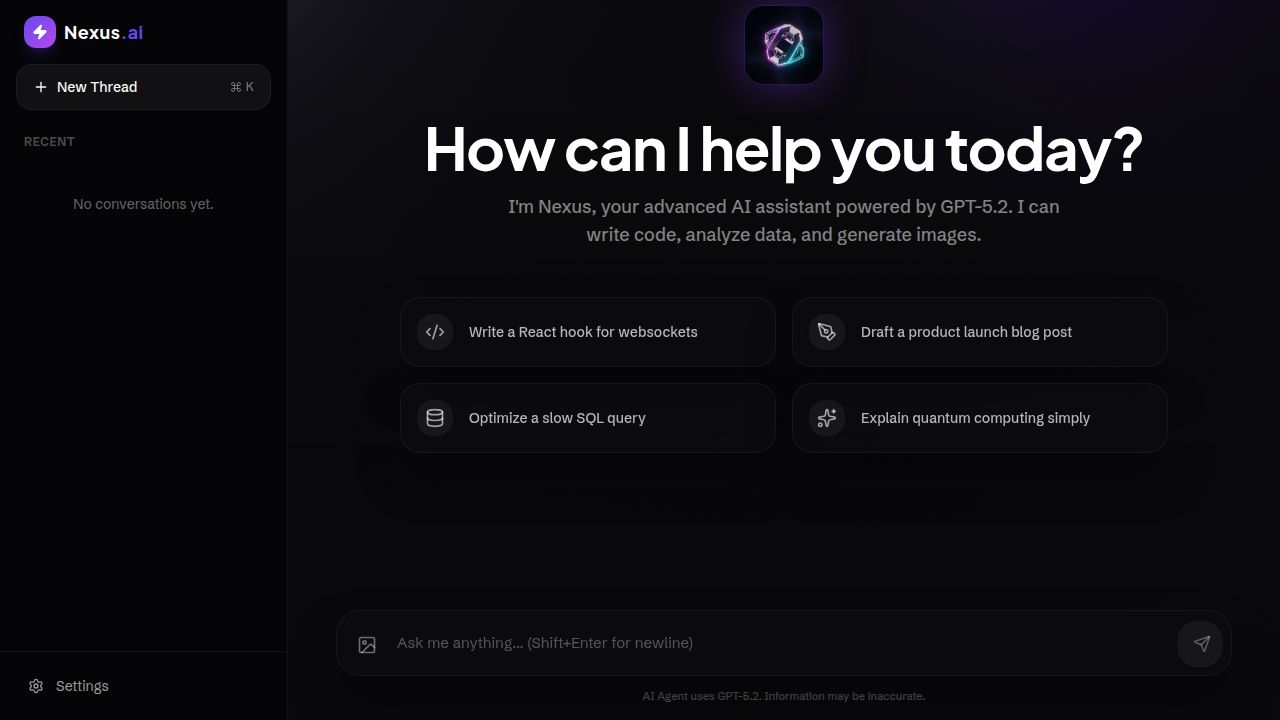
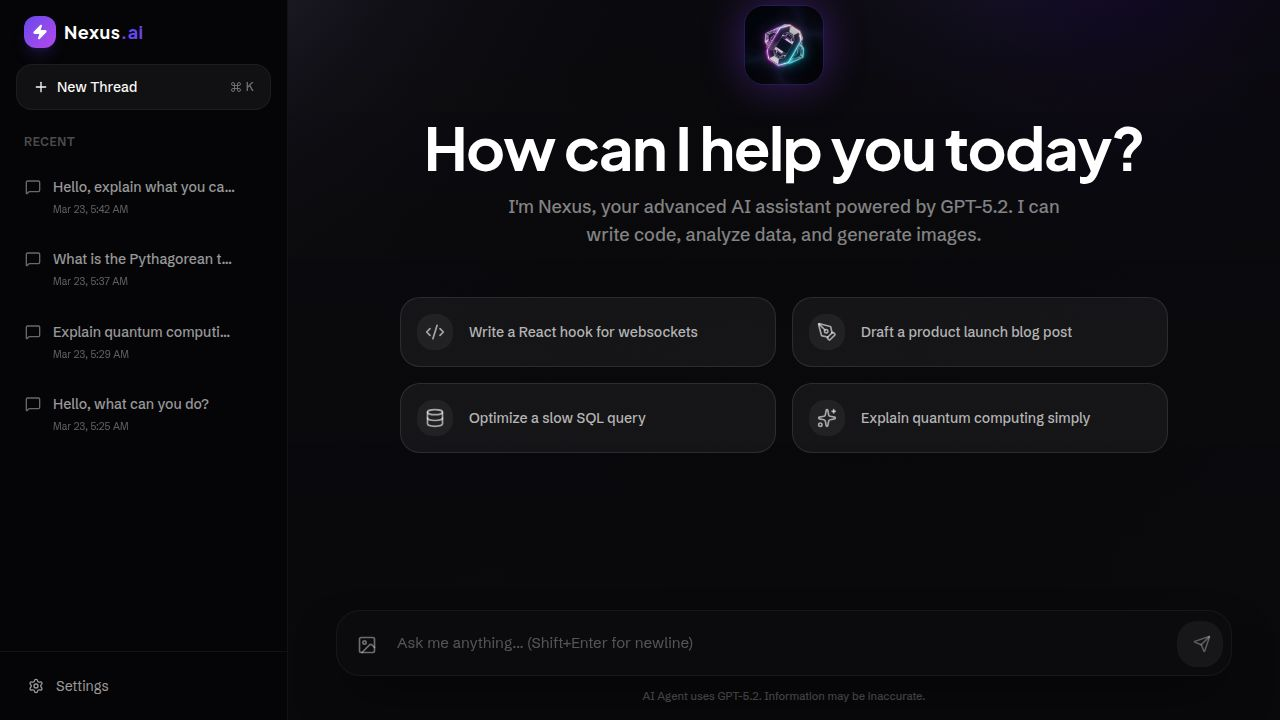
Add settings to customize AI behavior and manage conversations
Introduces a new SettingsDialog component and integrates it into the sidebar. Updates ChatContext to use custom system prompts from settings. Modifies the API server to accept and utilize the systemPrompt in message requests, and updates API specifications and generated types accordingly.

Replit-Commit-Author: Agent
Replit-Commit-Session-Id: 7df5c98d-694a-4660-9762-eb624209e7f6
Replit-Commit-Checkpoint-Type: full_checkpoint
Replit-Commit-Event-Id: afbe8bd6-94ae-4be5-abe4-93b4d1f12a5f
Replit-Commit-Screenshot-Url: https://storage.googleapis.com/screenshot-production-us-central1/21b80e66-913c-4829-8429-2caa1520962c/7df5c98d-694a-4660-9762-eb624209e7f6/gSpYthp
Replit-Helium-Checkpoint-Created: true

diff --git a/artifacts/ai-agent/src/components/SettingsDialog.tsx b/artifacts/ai-agent/src/components/SettingsDialog.tsx
@@ -1,0 +1,203 @@
+import { useState, useEffect } from "react";
+import {
+  Dialog,
+  DialogContent,
+  DialogHeader,
+  DialogTitle,
+} from "@/components/ui/dialog";
+import { Switch } from "@/components/ui/switch";
+import { Trash2, RotateCcw, Bot, Sliders, Info } from "lucide-react";
+import { useDeleteOpenaiConversation, useListOpenaiConversations, getListOpenaiConversationsQueryKey } from "@workspace/api-client-react";
+import { useQueryClient } from "@tanstack/react-query";
+
+export const SETTINGS_KEY = "nexus_settings";
+
+export interface NexusSettings {
+  systemPrompt: string;
+  responseStyle: "concise" | "balanced" | "detailed";
+  streamingEnabled: boolean;
+}
+
+export const DEFAULT_SETTINGS: NexusSettings = {
+  systemPrompt: "",
+  responseStyle: "balanced",
+  streamingEnabled: true,
+};
+
+export function loadSettings(): NexusSettings {
+  try {
+    const raw = localStorage.getItem(SETTINGS_KEY);
+    if (!raw) return DEFAULT_SETTINGS;
+    return { ...DEFAULT_SETTINGS, ...(JSON.parse(raw) as Partial<NexusSettings>) };
+  } catch {
+    return DEFAULT_SETTINGS;
+  }
+}
+
+export function saveSettings(s: NexusSettings): void {
+  localStorage.setItem(SETTINGS_KEY, JSON.stringify(s));
+}
+
+export function buildSystemPrompt(settings: NexusSettings): string {
+  const styleInstructions: Record<NexusSettings["responseStyle"], string> = {
+    concise: "Keep responses short and to the point. Avoid unnecessary elaboration.",
+    balanced: "Be clear and helpful. Use moderate detail.",
+    detailed:
+      "Provide thorough, comprehensive responses. Include explanations, examples, and context.",
+  };
+  const base =
+    settings.systemPrompt.trim() ||
+    "You are an extremely capable AI Agent. You can help with any task: coding, writing, analysis, math, creative work, research, problem-solving, and image generation.";
+
+  return `${base}\n\n${styleInstructions[settings.responseStyle]} Use markdown formatting when it improves readability.`;
+}
+
+interface SettingsDialogProps {
+  open: boolean;
+  onOpenChange: (open: boolean) => void;
+}
+
+export function SettingsDialog({ open, onOpenChange }: SettingsDialogProps) {
+  const [settings, setSettings] = useState<NexusSettings>(loadSettings);
+  const [clearConfirm, setClearConfirm] = useState(false);
+  const { data: conversations } = useListOpenaiConversations();
+  const { mutate: deleteConv } = useDeleteOpenaiConversation();
+  const queryClient = useQueryClient();
+
+  useEffect(() => {
+    if (open) setSettings(loadSettings());
+  }, [open]);
+
+  const update = (patch: Partial<NexusSettings>) => {
+    setSettings((prev) => {
+      const next = { ...prev, ...patch };
+      saveSettings(next);
+      return next;
+    });
+  };
+
+  const handleClearAll = () => {
+    if (!clearConfirm) {
+      setClearConfirm(true);
+      return;
+    }
+    const ids = (conversations ?? []).map((c) => c.id);
+    ids.forEach((id) => deleteConv({ id }));
+    queryClient.invalidateQueries({ queryKey: getListOpenaiConversationsQueryKey() });
+    setClearConfirm(false);
+  };
+
+  const handleResetPrompt = () => {
+    update({ systemPrompt: "" });
+  };
+
+  return (
+    <Dialog open={open} onOpenChange={(v) => { onOpenChange(v); setClearConfirm(false); }}>
+      <DialogContent className="max-w-lg bg-[#0d0d12] border-white/10 text-white rounded-2xl p-0 overflow-hidden">
+        <DialogHeader className="px-6 pt-6 pb-4 border-b border-white/5">
+          <DialogTitle className="text-lg font-semibold text-white flex items-center gap-2">
+            <Sliders className="w-5 h-5 text-primary" />
+            Settings
+          </DialogTitle>
+        </DialogHeader>
+
+        <div className="px-6 py-5 space-y-6 overflow-y-auto max-h-[70vh]">
+          {/* Model info */}
+          <section className="space-y-2">
+            <h3 className="text-xs font-semibold text-white/40 uppercase tracking-wider">Model</h3>
+            <div className="flex items-center gap-3 p-3 rounded-xl bg-white/5 border border-white/5">
+              <Bot className="w-5 h-5 text-primary shrink-0" />
+              <div>
+                <p className="text-sm font-medium text-white">GPT-5.2</p>
+                <p className="text-xs text-white/40">Powered by Replit AI Integration</p>
+              </div>
+            </div>
+          </section>
+
+          {/* Response style */}
+          <section className="space-y-3">
+            <h3 className="text-xs font-semibold text-white/40 uppercase tracking-wider">Response Style</h3>
+            <div className="grid grid-cols-3 gap-2">
+              {(["concise", "balanced", "detailed"] as const).map((style) => (
+                <button
+                  key={style}
+                  onClick={() => update({ responseStyle: style })}
+                  className={`px-3 py-2 rounded-xl text-xs font-medium capitalize transition-all border ${
+                    settings.responseStyle === style
+                      ? "bg-primary/20 border-primary/40 text-primary"
+                      : "bg-white/5 border-white/5 text-white/50 hover:bg-white/10 hover:text-white"
+                  }`}
+                >
+                  {style}
+                </button>
+              ))}
+            </div>
+            <p className="text-xs text-white/30">
+              {settings.responseStyle === "concise" && "Short, direct answers without elaboration."}
+              {settings.responseStyle === "balanced" && "Clear and helpful responses with appropriate detail."}
+              {settings.responseStyle === "detailed" && "Comprehensive answers with explanations and examples."}
+            </p>
+          </section>
+
+          {/* Streaming */}
+          <section className="space-y-3">
+            <h3 className="text-xs font-semibold text-white/40 uppercase tracking-wider">Behavior</h3>
+            <div className="flex items-center justify-between p-3 rounded-xl bg-white/5 border border-white/5">
+              <div>
+                <p className="text-sm font-medium text-white">Streaming responses</p>
+                <p className="text-xs text-white/40">Show tokens as they are generated</p>
+              </div>
+              <Switch
+                checked={settings.streamingEnabled}
+                onCheckedChange={(v) => update({ streamingEnabled: v })}
+              />
+            </div>
+          </section>
+
+          {/* Custom system prompt */}
+          <section className="space-y-3">
+            <div className="flex items-center justify-between">
+              <h3 className="text-xs font-semibold text-white/40 uppercase tracking-wider">Custom Instructions</h3>
+              {settings.systemPrompt && (
+                <button
+                  onClick={handleResetPrompt}
+                  className="flex items-center gap-1 text-xs text-white/40 hover:text-white/70 transition-colors"
+                >
+                  <RotateCcw className="w-3 h-3" />
+                  Reset
+                </button>
+              )}
+            </div>
+            <textarea
+              value={settings.systemPrompt}
+              onChange={(e) => update({ systemPrompt: e.target.value })}
+              placeholder="Add custom instructions for the AI (optional). For example: 'Always respond in Spanish' or 'You are a senior Python engineer.'"
+              rows={4}
+              className="w-full px-3 py-2.5 rounded-xl bg-white/5 border border-white/10 text-sm text-white/80 placeholder:text-white/20 focus:outline-none focus:border-primary/40 resize-none transition-colors"
+            />
+            <div className="flex items-start gap-2 text-xs text-white/30">
+              <Info className="w-3 h-3 shrink-0 mt-0.5" />
+              <p>These instructions are sent with every message and shape how the AI responds to you.</p>
+            </div>
+          </section>
+
+          {/* Danger zone */}
+          <section className="space-y-3 pt-2 border-t border-white/5">
+            <h3 className="text-xs font-semibold text-white/40 uppercase tracking-wider">Data</h3>
+            <button
+              onClick={handleClearAll}
+              className={`flex items-center gap-2 w-full px-4 py-3 rounded-xl text-sm font-medium transition-all border ${
+                clearConfirm
+                  ? "bg-red-500/20 border-red-500/40 text-red-400 hover:bg-red-500/30"
+                  : "bg-white/5 border-white/5 text-white/60 hover:bg-white/10 hover:text-white"
+              }`}
+            >
+              <Trash2 className="w-4 h-4" />
+              {clearConfirm ? "Click again to confirm — this cannot be undone" : "Clear all conversations"}
+            </button>
+          </section>
+        </div>
+      </DialogContent>
+    </Dialog>
+  );
+}

diff --git a/artifacts/ai-agent/src/components/Sidebar.tsx b/artifacts/ai-agent/src/components/Sidebar.tsx
@@ -1,11 +1,14 @@
+import { useState } from "react";
 import { Link, useLocation } from "wouter";
 import { format } from "date-fns";
 import { MessageSquare, Plus, Trash2, Zap, Settings, Command } from "lucide-react";
 import { useListOpenaiConversations, useDeleteOpenaiConversation, getListOpenaiConversationsQueryKey } from "@workspace/api-client-react";
 import { cn } from "@/lib/utils";
 import { useQueryClient } from "@tanstack/react-query";
+import { SettingsDialog } from "@/components/SettingsDialog";
 
 export function Sidebar({ className }: { className?: string }) {
+  const [settingsOpen, setSettingsOpen] = useState(false);
   const [location, setLocation] = useLocation();
   const { data: conversations, isLoading } = useListOpenaiConversations();
   const { mutate: deleteConversation } = useDeleteOpenaiConversation();
@@ -103,11 +106,16 @@ export function Sidebar({ className }: { className?: string }) {
       </div>
 
       <div className="p-4 border-t border-white/5 mt-auto">
-        <button className="flex items-center gap-3 w-full px-3 py-2 rounded-xl text-sm text-white/60 hover:text-white hover:bg-white/5 transition-colors">
+        <button
+          onClick={() => setSettingsOpen(true)}
+          className="flex items-center gap-3 w-full px-3 py-2 rounded-xl text-sm text-white/60 hover:text-white hover:bg-white/5 transition-colors"
+        >
           <Settings className="w-4 h-4" />
           Settings
         </button>
       </div>
+
+      <SettingsDialog open={settingsOpen} onOpenChange={setSettingsOpen} />
     </div>
   );
 }

diff --git a/artifacts/api-server/src/routes/openai/conversations.ts b/artifacts/api-server/src/routes/openai/conversations.ts
@@ -160,11 +160,13 @@ router.post("/conversations/:id/messages", async (req, res) => {
       content: body.content,
     });
 
+    const defaultSystemPrompt =
+      "You are an extremely capable AI Agent. You can help with any task: coding, writing, analysis, math, creative work, research, problem-solving, image generation (tell the user you can generate images when relevant), and more. Be concise, clear, and helpful. Use markdown formatting when it improves readability.";
+
     const chatMessages: { role: "system" | "user" | "assistant"; content: string }[] = [
       {
         role: "system",
-        content:
-          "You are an extremely capable AI Agent. You can help with any task: coding, writing, analysis, math, creative work, research, problem-solving, image generation (tell the user you can generate images when relevant), and more. Be concise, clear, and helpful. Use markdown formatting when it improves readability.",
+        content: body.systemPrompt ?? defaultSystemPrompt,
       },
       ...history
         .filter((m) => m.role === "user" || m.role === "assistant")

diff --git a/artifacts/ai-agent/src/context/ChatContext.tsx b/artifacts/ai-agent/src/context/ChatContext.tsx
@@ -6,6 +6,7 @@ import {
   getGetOpenaiConversationQueryKey,
   getListOpenaiConversationsQueryKey,
 } from "@workspace/api-client-react";
+import { loadSettings, buildSystemPrompt } from "@/components/SettingsDialog";
 
 export type LocalMedia = {
   id: string;
@@ -115,10 +116,13 @@ export function ChatProvider({ children }: { children: React.ReactNode }) {
           },
         );
 
+        const settings = loadSettings();
+        const systemPrompt = buildSystemPrompt(settings);
+
         const res = await fetch(`/api/openai/conversations/${targetId}/messages`, {
           method: "POST",
           headers: { "Content-Type": "application/json" },
-          body: JSON.stringify({ content }),
+          body: JSON.stringify({ content, systemPrompt }),
           signal: abortControllerRef.current.signal,
         });
 
